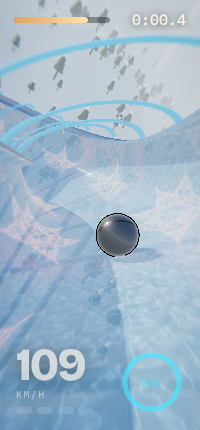
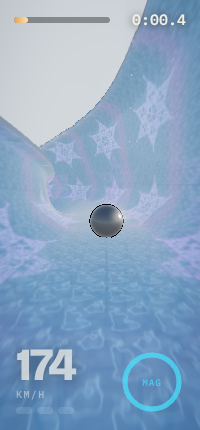
Built-up corners: taller outside walls, overhang lip, spin follows the wall
- Track.raiseCornerWalls raises the outside wall (up to +8 m) on corners
  that a ball at racing speed would ride high on, from v²κ/g minus bank.
- Per-side wall heights in the collision SDF, the mesh and the magnet.
- Raised walls end in a smooth bobsleigh overhang instead of a flat lip.
- Spin is transported with the contact normal, so riding up a wall no
  longer skids away ~2/7 of the ball's energy (120° corner at 42 m/s:
  exit 37 m/s, was 20).
- Grip assist only damps sideways motion on the floor, not on the walls.

Claude-Session: https://claude.ai/code/session_01YEyJbfbauqufbe5QZuJCsT

diff --git a/src/track/profile.ts b/src/track/profile.ts
@@ -66,7 +66,9 @@ export function innerSignedDistance(x: number, y: number, p: GutterProfile): num
  * Signed distance to the solid gutter shell (positive = outside material).
  * `closed` adds a roof (tunnel sections) at the wall tops.
  */
-export function shellSDF(x: number, y: number, p: GutterProfile, closed = false, visibleOnly = false, openSky = false, curl = 0): number {
+export function shellSDF(x: number, y: number, p: GutterProfile, closed = false, visibleOnly = false, openSky = false, curl = 0, hL = p.H, hR = p.H): number {
+  // per-side wall height: the outside wall of a corner is built up so a fast ball can ride high
+  const Hs = x < 0 ? hL : hR;
   const din = innerSignedDistance(x, y, p);
   let sdf = Math.max(din, -din - p.th);
   // Collision walls continue invisibly above the rim ("containment field"), so
@@ -74,15 +76,15 @@ export function shellSDF(x: number, y: number, p: GutterProfile, closed = false,
   // into. `visibleOnly` gives the real surface (for the magnet and visuals).
   // In 'open sky' sections they stop a few metres above the rim: a big double
   // jump can fly off course there, and only the tractor beam saves you.
-  if (visibleOnly) sdf = Math.max(sdf, y - p.H);
-  else if (openSky) sdf = Math.max(sdf, y - (p.H + CONTAIN_ABOVE_RIM));
+  if (visibleOnly) sdf = Math.max(sdf, y - Hs);
+  else if (openSky) sdf = Math.max(sdf, y - (Hs + CONTAIN_ABOVE_RIM));
   const W = p.a + p.rc;
   const phiMax = curl * Math.PI / 2;
   if (curl > 0) {
     // TUBE: above the wall tops the walls curl inward along a circle of radius
     // W centred at (0, H). At curl = 1 both sides meet overhead and the gutter
     // becomes a closed pipe you can roll all the way around inside.
-    const ax = Math.abs(x), dy = y - p.H;
+    const ax = Math.abs(x), dy = y - Hs;
     const r = Math.hypot(ax, dy);
     const phi = Math.atan2(dy, ax);
     let arcD: number;
@@ -97,11 +99,31 @@ export function shellSDF(x: number, y: number, p: GutterProfile, closed = false,
     }
     sdf = Math.min(sdf, arcD);
   }
-  const lipLen = p.lip * (1 - curl);
-  if (p.lip > 0) {
+  // BUILT-UP CORNER: a raised outside wall ends in a smooth overhang (a
+  // bobsleigh lip) instead of the flat flange, so a ball riding high up the
+  // wall is curled back down rather than slamming into a ledge.
+  const ok = curl > 0 ? 0 : overhangK(Hs, p);
+  if (ok > 0) {
+    const A = OVERHANG_ANGLE * ok;
+    const ax = Math.abs(x) - (W - OVERHANG_R), dy = y - Hs;
+    const r = Math.hypot(ax, dy), phi = Math.atan2(dy, ax);
+    let d: number;
+    if (phi >= 0 && phi <= A) d = Math.max(OVERHANG_R - r, r - (OVERHANG_R + p.th));
+    else {
+      const cap = (a: number) => {
+        const c = Math.cos(a), sn = Math.sin(a);
+        const t = Math.max(OVERHANG_R, Math.min(OVERHANG_R + p.th, ax * c + dy * sn));
+        return Math.hypot(ax - c * t, dy - sn * t);
+      };
+      d = Math.min(cap(0), cap(A));
+    }
+    sdf = Math.min(sdf, d);
+  }
+  const lipLen = p.lip * (1 - curl) * (1 - ok);
+  if (p.lip > 0 && lipLen > 0.01) {
     // Rolled lip: a flange overhanging the channel at the top of each wall
     // (at the end of the curl when the walls are curling into a tube).
-    const ax0 = Math.abs(x), dy0 = y - p.H;
+    const ax0 = Math.abs(x), dy0 = y - Hs;
     const c = Math.cos(phiMax), sn = Math.sin(phiMax);
     const u = ax0 * c + dy0 * sn, v = -ax0 * sn + dy0 * c;
     const cx = W - lipLen / 2 + p.th / 2;
@@ -116,6 +138,14 @@ export function shellSDF(x: number, y: number, p: GutterProfile, closed = false,
     sdf = Math.min(sdf, roof);
   }
   return sdf;
+}
+
+/** Radius and sweep of the overhang on a built-up corner wall. */
+export const OVERHANG_R = 2.4;
+export const OVERHANG_ANGLE = (110 * Math.PI) / 180;
+/** How far a wall has turned into an overhang (0 = normal wall with flat lip, 1 = full overhang). */
+export function overhangK(Hs: number, p: GutterProfile): number {
+  return Math.max(0, Math.min(1, (Hs - p.H - 0.5) / 3));
 }
 
 /** Sample the inner profile as a polyline for mesh generation (left wall top -> right wall top). */
@@ -162,31 +192,46 @@ export function tubeTop(p: GutterProfile): number { return p.H + p.a + p.rc; }
  * Always returns the same number of points (left lip -> right lip), so rings
  * at different curls can be stitched into one mesh as the gutter closes.
  */
-export function profileRing(p: GutterProfile, curl: number, arcSteps = 12, curlSteps = 14): { pts: Array<[number, number]>; nrm: Array<[number, number]> } {
+export function profileRing(p: GutterProfile, curl: number, arcSteps = 12, curlSteps = 14, hL = p.H, hR = p.H): { pts: Array<[number, number]>; nrm: Array<[number, number]> } {
   const W = p.a + p.rc;
   const phiMax = curl * Math.PI / 2;
-  const lipLen = p.lip * (1 - curl);
-  const right: Array<[number, number, number, number]> = []; // x, y, nx, ny (right half, floor centre -> lip)
-  right.push([0, 0, 0, 1]);
-  right.push([p.a, 0, 0, 1]);
-  for (let i = 1; i < arcSteps; i++) {
-    const t = -Math.PI / 2 + (i / arcSteps) * (Math.PI / 2);
-    const c = Math.cos(t), s = Math.sin(t);
-    right.push([p.a + p.rc * c, p.rc + p.rc * s, -c, -s]);
-  }
-  right.push([W, p.rc, -1, 0]);
-  right.push([W, p.H, -1, 0]);
-  for (let j = 1; j <= curlSteps; j++) {
-    const f = phiMax * (j / curlSteps);
-    const c = Math.cos(f), s = Math.sin(f);
-    right.push([W * c, p.H + W * s, -c, -s]);
-  }
-  {
-    const c = Math.cos(phiMax), s = Math.sin(phiMax);
-    right.push([W * c - c * lipLen, p.H + W * s - s * lipLen, s, -c]);
-  }
+  const half = (Hs: number) => {
+    const ok = curl > 0 ? 0 : overhangK(Hs, p);
+    const lipLen = p.lip * (1 - curl) * (1 - ok);
+    const right: Array<[number, number, number, number]> = []; // x, y, nx, ny (right half, floor centre -> lip)
+    right.push([0, 0, 0, 1]);
+    right.push([p.a, 0, 0, 1]);
+    for (let i = 1; i < arcSteps; i++) {
+      const t = -Math.PI / 2 + (i / arcSteps) * (Math.PI / 2);
+      const c = Math.cos(t), s = Math.sin(t);
+      right.push([p.a + p.rc * c, p.rc + p.rc * s, -c, -s]);
+    }
+    right.push([W, p.rc, -1, 0]);
+    right.push([W, Hs, -1, 0]);
+    if (ok > 0) {
+      // overhang arc (built-up corner), then what is left of the flat lip
+      const A = OVERHANG_ANGLE * ok, cx = W - OVERHANG_R;
+      for (let j = 1; j <= curlSteps; j++) {
+        const f = A * (j / curlSteps);
+        const c = Math.cos(f), s = Math.sin(f);
+        right.push([cx + OVERHANG_R * c, Hs + OVERHANG_R * s, -c, -s]);
+      }
+      const e = right[right.length - 1];
+      right.push([e[0] - lipLen, e[1], 0, -1]);
+    } else {
+      for (let j = 1; j <= curlSteps; j++) {
+        const f = phiMax * (j / curlSteps);
+        const c = Math.cos(f), s = Math.sin(f);
+        right.push([W * c, Hs + W * s, -c, -s]);
+      }
+      const c = Math.cos(phiMax), s = Math.sin(phiMax);
+      right.push([W * c - c * lipLen, Hs + W * s - s * lipLen, s, -c]);
+    }
+    return right;
+  };
+  const right = half(hR), leftHalf = half(hL);
   const pts: Array<[number, number]> = [], nrm: Array<[number, number]> = [];
-  for (let i = right.length - 1; i >= 1; i--) { const q = right[i]; pts.push([-q[0], q[1]]); nrm.push([-q[2], q[3]]); }
+  for (let i = leftHalf.length - 1; i >= 1; i--) { const q = leftHalf[i]; pts.push([-q[0], q[1]]); nrm.push([-q[2], q[3]]); }
   for (const q of right) { pts.push([q[0], q[1]]); nrm.push([q[2], q[3]]); }
   return { pts, nrm };
 }

diff --git a/src/track/track.ts b/src/track/track.ts
@@ -118,6 +118,9 @@ export class Track {
   readonly tubeK: Float32Array;
   /** Per-sample tube current top speed (0 = default warp). */
   readonly warpCap: Float32Array;
+  /** Wall height (m above the floor) on the left and right, per sample: raised on the outside of corners. */
+  readonly wallL: Float32Array;
+  readonly wallR: Float32Array;
   /** Per-sample fractal motion [flow, pulse, twist], smoothed between sections. */
   readonly fxMode: Float32Array;
   readonly obstacles: Obstacle[];
@@ -155,6 +158,9 @@ export class Track {
         this.tubeK[i] = k < 0.002 ? 0 : k > 0.998 ? 1 : k * k * (3 - 2 * k);
       }
     }
+    this.wallL = new Float32Array(this.n).fill(this.profile.H);
+    this.wallR = new Float32Array(this.n).fill(this.profile.H);
+    this.raiseCornerWalls();
     // blend fractal motion across ~16 m so sections morph into each other
     {
       const src = this.fxMode.slice();
@@ -182,6 +188,44 @@ export class Track {
       if (c < this.length - 40) this.checkpoints.push(c);
     }
   }
+
+  /**
+   * Bank the corners like a racing line: in a turn of radius R a ball at
+   * cruising speed v rides up the wall to the angle where tan(theta) = v^2 / (gR).
+   * Where that is steep, the OUTSIDE wall (and its lip) is built up so you
+   * can carry your speed high round the corner instead of hitting the rim.
+   */
+  private raiseCornerWalls() {
+    const n = this.n, ds = this.ds, v = 55, g = 9.81, maxExtra = 8;
+    const extraL = new Float32Array(n), extraR = new Float32Array(n);
+    for (let i = 2; i < n - 2; i++) {
+      if (this.tubeK[i] > 0.02 || this.tunnel[i] || this.gap[i]) continue;
+      const dyaw = (this.angles[(i + 2) * 3] - this.angles[(i - 2) * 3]) / (4 * ds);   // deg per metre (+ = left)
+      if (Math.abs(dyaw) < 0.05) continue;
+      const kappa = Math.abs(dyaw) * Math.PI / 180;
+      const theta = Math.atan(v * v * kappa / g) * 180 / Math.PI;
+      const bankHelp = this.angles[i * 3 + 2] * Math.sign(dyaw);                          // bank tilted toward the inside helps
+      const e = Math.max(0, Math.min(1, (theta - bankHelp - 45) / 32)) * maxExtra;
+      if (dyaw > 0) extraR[i] = e; else extraL[i] = e;                                     // left turn: ball is flung right
+    }
+    // build up ahead of and after each corner (max over +-14 m), then taper smoothly (box +-10 m)
+    const spread = (src: Float32Array) => {
+      const m = new Float32Array(n), out = new Float32Array(n), w1 = 28, w2 = 20;
+      for (let i = 0; i < n; i++) { let mx = 0; for (let j = Math.max(0, i - w1); j <= Math.min(n - 1, i + w1); j++) mx = Math.max(mx, src[j]); m[i] = mx; }
+      for (let i = 0; i < n; i++) { let a = 0, c = 0; for (let j = Math.max(0, i - w2); j <= Math.min(n - 1, i + w2); j++) { a += m[j]; c++; } out[i] = a / c; }
+      return out;
+    };
+    const sl = spread(extraL), sr = spread(extraR);
+    for (let i = 0; i < n; i++) {
+      const open = 1 - Math.min(1, this.tubeK[i] * 20);                                   // never inside or entering tubes
+      if (this.tunnel[i]) continue;
+      this.wallL[i] = this.profile.H + sl[i] * open;
+      this.wallR[i] = this.profile.H + sr[i] * open;
+    }
+  }
+
+  /** Visible wall heights [left, right] at arc length s. */
+  wallsAt(s: number): [number, number] { const i = this.idx(s); return [this.wallL[i], this.wallR[i]]; }
 
   private idx(s: number): number {
     return Math.max(0, Math.min(this.n - 1, Math.round(s / this.ds)));
@@ -325,7 +369,7 @@ export class Track {
   sdfLocal(s: number, x: number, y: number, includeObstacles = true, visibleOnly = false): number {
     let d = 1e6;
     const s0 = this.layout.openStart ? 0 : -2, s1 = this.layout.openEnd ? this.length : this.length + 2;
-    if (s >= s0 && s <= s1 && !this.isGap(s)) d = shellSDF(x, y, this.profile, this.isTunnel(s), visibleOnly, this.openSky[this.idx(s)] === 1, this.tubeAt(s));
+    if (s >= s0 && s <= s1 && !this.isGap(s)) { const ii = this.idx(s); d = shellSDF(x, y, this.profile, this.isTunnel(s), visibleOnly, this.openSky[ii] === 1, this.tubeAt(s), this.wallL[ii], this.wallR[ii]); }
     else if (!visibleOnly && s >= s0 && s <= s1 && this.isGap(s)) {
       // Over a gap there is no floor, but the invisible side walls continue:
       // you can fall into a gap, never escape sideways out of the course.

diff --git a/src/physics/ball.ts b/src/physics/ball.ts
@@ -137,6 +137,8 @@ export class BallPhysics {
   airborneTime = 0;
   normalAccel = 0;
   slipSpeed = 0;
+  private spinPrevN = new Vector3();
+  private spinPrevValid = false;
   rollingState: RollingState = 'airborne';
   jumpTimer = 0;
   // Magnet
@@ -325,7 +327,9 @@ export class BallPhysics {
       acc.addScaledVector(Rt, st * tu.steerDirectFrac);
       // Grip assist: sideways sliding settles quickly when you ease off the
       // tilt, so the ball goes where you point it instead of wandering.
-      acc.addScaledVector(Rt, -vlat * 1.6 * (1 - Math.min(1, Math.abs(input.steer))));
+      // (only on the flat floor: on a wall, sideways motion IS the ride up the corner and must keep its energy)
+      const onFloor = 1 - Math.max(0, Math.min(1, (Math.abs(pr.x) - this.track.profile.a * 0.6) / (this.track.profile.a * 0.5)));
+      acc.addScaledVector(Rt, -vlat * 1.2 * onFloor * (1 - Math.min(1, Math.abs(input.steer))));
       // Δω = (n × dir)/r * Δv ; scale 3.5 so friction delivers ~the requested linear accel
       const gyro = st * (1 - tu.steerDirectFrac) * 3.5 / r * dt;
       const axis = new Vector3().copy(n).cross(Rt);
@@ -478,6 +482,15 @@ export class BallPhysics {
     this.normalAccel += (instN - this.normalAccel) * Math.min(1, dt * 30);
 
     if (touched) {
+      // Spin follows the surface: when the contact normal turns (floor -> wall
+      // on a banked corner), carry the spin round with it, as a ball rolling
+      // smoothly over a curve does. Without this, the coarse 240 Hz normal
+      // changes made the ball skid and lose ~2/7 of its energy on every wall ride.
+      if (this.spinPrevValid) {
+        const dotN = this.spinPrevN.dot(this.n);
+        if (dotN > 0.5 && dotN < 0.999999) { tmpQ.setFromUnitVectors(this.spinPrevN, this.n); this.w.applyQuaternion(tmpQ); }
+      }
+      this.spinPrevN.copy(this.n); this.spinPrevValid = true;
       this.sinceContact = 0;
       // Rolling resistance (opposes tangential velocity, scales with normal load)
       this.rollingResistance(dt);
@@ -485,6 +498,7 @@ export class BallPhysics {
       const wn = this.w.dot(this.n);
       this.w.addScaledVector(this.n, -wn * Math.min(1, mat.spinDamping * dt));
     } else {
+      this.spinPrevValid = false;
       this.sinceContact += dt;
     }
 
@@ -682,7 +696,8 @@ export class BallPhysics {
       const prj = this.proj, prof = this.track.profile;
       const Wc = halfWidth(prof);
       const inTube = this.track.tubeAt(prj.s) > 0.85;
-      const outside = !inTube && (Math.abs(prj.x) > Wc - this.tune.radius * 0.5 || prj.y > prof.H);
+      const [wl, wr] = this.track.wallsAt(prj.s);
+      const outside = !inTube && (Math.abs(prj.x) > Wc - this.tune.radius * 0.5 || prj.y > (prj.x < 0 ? wl : wr));
       const grounded0 = this.sinceContact <= 0.03;
       if (!inTube && !outside && !grounded0 && Math.abs(prj.along) < 3 && !this.track.isGap(prj.s)) {
         // In the air inside the channel: aim at the gutter surface directly
@@ -700,8 +715,8 @@ export class BallPhysics {
         // INTO the channel (towards the floor), never onto the outside of a wall.
         const tx = Math.max(-(Wc - 1.6), Math.min(Wc - 1.6, prj.x));
         // beside and below the rim: first lift over the rim, then into the channel
-        const besideLow = Math.abs(prj.x) > Wc && prj.y < prof.H + 1.5;
-        this.magnetTarget.copy(prj.P).addScaledVector(prj.R, besideLow ? Math.sign(prj.x) * (Wc - 1) : tx).addScaledVector(prj.U, besideLow ? prof.H + 3 : 0.05);
+        const besideLow = Math.abs(prj.x) > Wc && prj.y < Math.max(wl, wr) + 1.5;
+        this.magnetTarget.copy(prj.P).addScaledVector(prj.R, besideLow ? Math.sign(prj.x) * (Wc - 1) : tx).addScaledVector(prj.U, besideLow ? Math.max(wl, wr) + 3 : 0.05);
         nn.copy(this.p).sub(this.magnetTarget);
         d = nn.length();
         if (d > 1e-4) nn.multiplyScalar(1 / d); else nn.copy(prj.U);

diff --git a/src/render/trackMesh.ts b/src/render/trackMesh.ts
@@ -31,12 +31,13 @@ export function buildTrackGroup(track: Track, mat: MaterialProfile, groundHeight
   // then the rim, outer shell and other rim (part 1). Every curl gives the same
   // vertex count, so rows of an open gutter and a closed pipe stitch together.
   type RingPt = { x: number; y: number; nx: number; ny: number; u: number; part: 0 | 1 };
-  const ringCache = new Map<number, RingPt[]>();
-  const ringFor = (curl: number): RingPt[] => {
-    const key = Math.round(curl * 200);
-    const hit = ringCache.get(key);
+  const ringCache2 = new Map<string, RingPt[]>();
+  const ringFor = (curl: number, hL = prof.H, hR = prof.H): RingPt[] => {
+    const kc = Math.round(curl * 200), kl = Math.round(hL * 4), kr = Math.round(hR * 4);
+    const key = `${kc}|${kl}|${kr}`;
+    const hit = ringCache2.get(key);
     if (hit) return hit;
-    const { pts: inner, nrm: nIn } = profileRing(prof, key / 200, 12, 14);
+    const { pts: inner, nrm: nIn } = profileRing(prof, kc / 200, 12, 14, kl / 4, kr / 4);
     const outer = inner.map((p, i) => [p[0] - nIn[i][0] * prof.th, p[1] - nIn[i][1] * prof.th] as [number, number]);
     const ring: RingPt[] = [];
     let u = 0;
@@ -59,7 +60,7 @@ export function buildTrackGroup(track: Track, mat: MaterialProfile, groundHeight
     }
     ring.push({ x: outer[0][0], y: outer[0][1], nx: 0, ny: 1, u, part: 1 });
     ring.push({ x: inner[0][0], y: inner[0][1], nx: 0, ny: 1, u: u + prof.th, part: 1 });
-    ringCache.set(key, ring);
+    ringCache2.set(key, ring);
     return ring;
   };
   const nInner = profileRing(prof, 0, 12, 14).pts.length;
@@ -91,7 +92,7 @@ export function buildTrackGroup(track: Track, mat: MaterialProfile, groundHeight
     for (let i = from; i <= to; i += step) {
       track.sample(i, P, T, U, R);
       const s = i * track.ds;
-      const ring = ringFor(track.tubeK[i]);
+      const ring = ringFor(track.tubeK[i], track.wallL[i], track.wallR[i]);
       rowS.push(s);
       for (let k = 0; k < M; k++) {
         const r = ring[k];
@@ -236,6 +237,7 @@ function buildRibs(track: Track, mat: MaterialProfile, theme: { a: number }) {
   for (let s = 20; s < track.length - 70; s += RIB_SPACING) {
     const i = Math.round(s / track.ds);
     if (track.gap[i] || track.tunnel[i] || track.openSky[i] || track.tubeK[i] > 0) continue; // keep fork zones and tubes clear
+    if (Math.max(track.wallL[i], track.wallR[i]) > prof.H + 0.4) continue;                 // no arches over built-up corners
     track.sample(i, P, T, U, R);
     if (U.y < 0.45) continue; // keep loops open
     // torus lies in its XY plane: x across (R), y up (U), scaled into a flat arch

diff --git a/tests/physics.test.ts b/tests/physics.test.ts
@@ -364,3 +364,18 @@ describe('turbo combo', () => {
     expect(b.pushCombo).toBeLessThan(3);
   });
 });
+
+describe('built-up corners', () => {
+  it('a fast ball rides high round an unbanked corner, past the old lip height, keeping its speed', () => {
+    const tr = new Track({ id: 't', name: 't', segments: [{ len: 20, pitch: -2 }, { len: 60, pitch: -4 }, { len: 90, yaw: 120, pitch: -4 }, { len: 60, pitch: -4 }], obstacles: [], hints: [] });
+    const extra = Math.max(...Array.from(tr.wallR)) - tr.profile.H;
+    expect(extra).toBeGreaterThan(4);                           // outside (right) wall is built up
+    expect(Math.max(...Array.from(tr.wallL))).toBeCloseTo(tr.profile.H, 3);   // inside stays normal
+    const b = new BallPhysics(tr, MATERIALS.wood);
+    b.placeAt(50, 42);
+    let maxY = 0;
+    sim(b, 3, idle, () => { maxY = Math.max(maxY, b.proj.y); });
+    expect(maxY).toBeGreaterThan(tr.profile.H);                // rode above where the old lip was
+    expect(b.v.length()).toBeGreaterThan(30);                  // and carried its speed through
+  });
+});

diff --git a/docs/PHYSICS.md b/docs/PHYSICS.md
@@ -47,3 +47,9 @@ Steering 7.5 m/s² (35 % direct), air steer 2.6 m/s², propulsion levels 0 / 1.6
 `tests/physics.test.ts`: profile continuity, frame orthonormality through loops, downhill acceleration vs. the rolling-sphere law `a = 5/7 g sinθ`, rolling constraint `|ω|r ≈ |v|`, ice slides far longer than wood, steering has no position jumps, outside-wall climb grows with speed, jump preserves forward momentum and is debounced, magnet is a bounded force, no tunnelling at 45 m/s lateral impact, seam event count matches distance, loop traversal, water buoyancy/current.
 
 `tests/courses.test.ts`: every catalog course completes under the autopilot (which only uses player inputs).
+
+## Built-up corners
+
+- `Track.raiseCornerWalls()` finds corners where a ball at racing speed (55 m/s) would ride high up the wall. It takes the lean angle tanθ = v²κ/g, subtracts the bank the track already has, and raises the **outside** wall by up to 8 m. The rise is spread before and after the turn so the line flows. Tubes and tunnels are never raised.
+- A raised wall ends in a smooth **overhang**, like a bobsleigh lip (radius 2.4 m, sweeping up to 110°), instead of the flat flange. A ball riding all the way up is curled back down, not stopped.
+- **Spin transport.** While in contact, the ball's spin is rotated with the contact normal every step, as a ball rolling smoothly over a curve does. Without this, the jump from floor to wall made the ball skid and lose about 2/7 of its kinetic energy, and every wall ride bled speed. Test: a 120° unbanked corner entered at 42 m/s now exits at about 37 m/s (it was 20).
